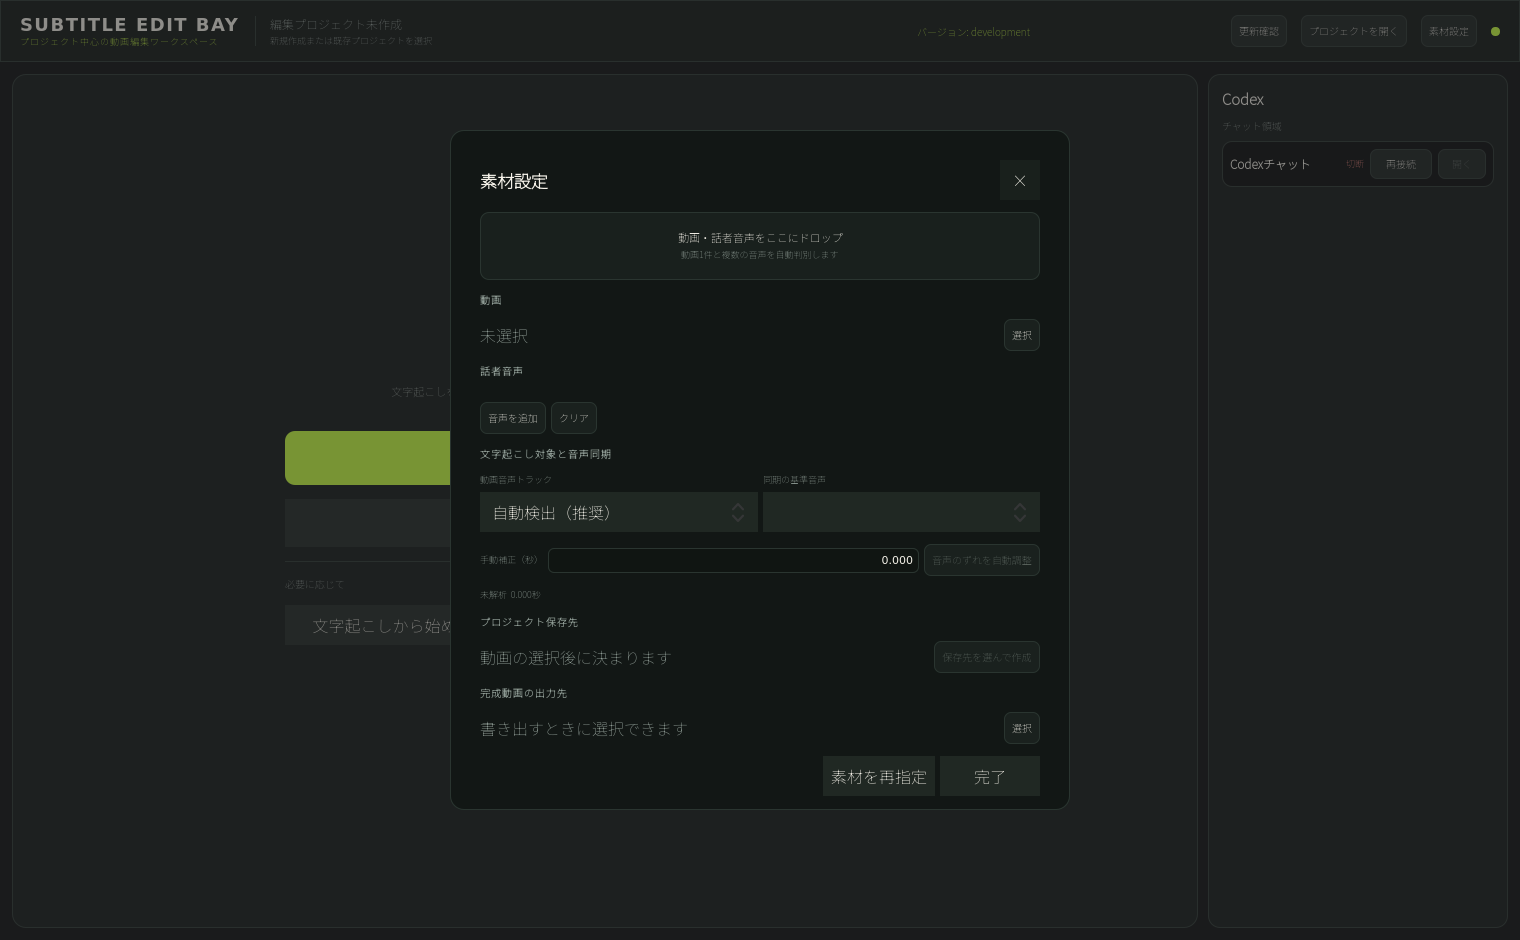
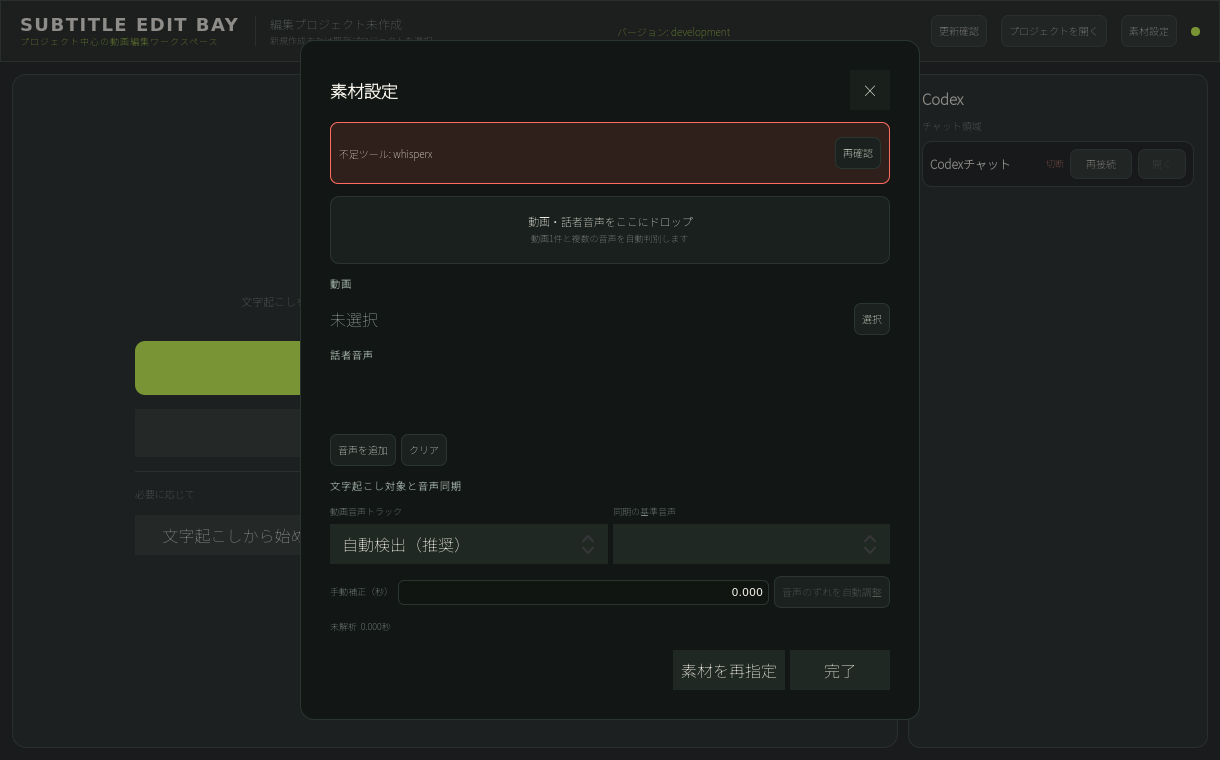
素材設定ポップアップの操作領域を固定

diff --git a/src/ui/screens/MainWorkflowScreen.qml b/src/ui/screens/MainWorkflowScreen.qml
@@ -2032,13 +2032,32 @@ ApplicationWindow {
         objectName: "sourcePopup"
         id: sourcePopup
         anchors.centerIn: Overlay.overlay
-        width: 620; height: 680; modal: true; focus: true; closePolicy: Popup.CloseOnEscape
+        width: Math.min(620, Overlay.overlay.width - 32)
+        height: Math.min(680, Overlay.overlay.height - 32)
+        modal: true; focus: true; closePolicy: Popup.CloseOnEscape
         onOpened: root.appBackend.beginSourceRelink()
         onClosed: root.appBackend.finishSourceRelink()
         background: Rectangle { radius: 14; color: root.panel; border.color: root.border }
         ColumnLayout { anchors.fill: parent; anchors.margins: 18; spacing: 12
             RowLayout { Layout.fillWidth: true; Text { text: "素材設定"; color: root.textPrimary; font.family: "Yu Gothic UI"; font.pixelSize: 17; font.weight: Font.Bold; Layout.fillWidth: true } ToolButton { text: "×"; onClicked: sourcePopup.close() } }
+            ScrollView {
+                id: sourceSettingsScrollView
+                objectName: "sourceSettingsScrollView"
+                Layout.fillWidth: true
+                Layout.fillHeight: true
+                clip: true
+                ScrollBar.horizontal.policy: ScrollBar.AlwaysOff
+                ScrollBar.vertical: ScrollBar {
+                    objectName: "sourceSettingsVerticalScrollBar"
+                    policy: ScrollBar.AsNeeded
+                }
+                ColumnLayout {
+                    id: sourceSettingsContent
+                    objectName: "sourceSettingsContent"
+                    width: sourceSettingsScrollView.availableWidth
+                    spacing: 12
             Rectangle {
+                objectName: "sourceDependencyWarning"
                 Layout.fillWidth: true
                 Layout.preferredHeight: visible ? 62 : 0
                 visible: !root.appBackend.dependencyStatus.ready
@@ -2086,7 +2105,9 @@ ApplicationWindow {
             PanelTitle { text: "話者音声" }
             ListView {
                 id: sourceAudioList
-                Layout.fillWidth: true; Layout.fillHeight: true; clip: true; spacing: 5; model: root.appBackend.speakers
+                Layout.fillWidth: true
+                Layout.preferredHeight: Math.max(48, Math.min(124, contentHeight))
+                clip: true; spacing: 5; model: root.appBackend.speakers
                 delegate: Rectangle { id: sourceAudioDelegate; required property int index; required property var modelData; width: sourceAudioList.width; height: 38; radius: 7; color: root.raised
                     RowLayout {
                         anchors.fill: parent
@@ -2175,7 +2196,15 @@ ApplicationWindow {
                 Text { objectName: "videoOutputDirectoryText"; Layout.fillWidth: true; text: root.appBackend.videoOutputDirectory || "書き出すときに選択できます"; color: root.textMuted; elide: Text.ElideMiddle }
                 SmallButton { objectName: "videoOutputDirectoryButton"; text: "選択"; enabled: !root.appBackend.running; onClicked: root.appBackend.browseOutputDirectory() }
             }
-            RowLayout { Layout.fillWidth: true; Item { Layout.fillWidth: true } Button { objectName: "sourceRelinkButton"; text: "素材を再指定"; enabled: root.appBackend.projectLoaded && !root.appBackend.running; onClicked: root.appBackend.relinkProjectSources() } Button { objectName: "sourceDoneButton"; text: "完了"; onClicked: sourcePopup.close() } }
+                }
+            }
+            RowLayout {
+                objectName: "sourcePopupFooter"
+                Layout.fillWidth: true
+                Item { Layout.fillWidth: true }
+                Button { objectName: "sourceRelinkButton"; text: "素材を再指定"; enabled: root.appBackend.projectLoaded && !root.appBackend.running; onClicked: root.appBackend.relinkProjectSources() }
+                Button { objectName: "sourceDoneButton"; text: "完了"; onClicked: sourcePopup.close() }
+            }
         }
     }
 

diff --git a/tests/test_gui_editor.py b/tests/test_gui_editor.py
@@ -663,6 +663,14 @@ class GuiEditorRegressionTests(unittest.TestCase):
         export.mkdir()
         _, window = self._load_qml()
         self._click(window, self._quick_item(window, "sourceSetupButton"))
+        scroll_view = self._quick_item(window, "sourceSettingsScrollView")
+        flickable = scroll_view.property("contentItem")
+        max_content_y = max(
+            0.0,
+            float(flickable.property("contentHeight")) - float(flickable.property("height")),
+        )
+        flickable.setProperty("contentY", max_content_y)
+        self.app.processEvents()
         with patch("src.gui_base.QFileDialog.getExistingDirectory", return_value=str(export)):
             self._click(window, self._quick_item(window, "videoOutputDirectoryButton"))
         self.assertEqual(self._quick_item(window, "videoOutputDirectoryText").property("text"), str(export))
@@ -759,21 +767,52 @@ class GuiEditorRegressionTests(unittest.TestCase):
         path = self._load_project()
         self.app.setOutputDirectory("")
         self.app.initializeShortVideoClips()
-        self.app._dependencies = RuntimeDependencyStatus(True, True, False, cuda=False)
-        self.app.dependenciesChanged.emit()
         _, window = self._load_qml()
+        self.gui.resize(window, 1220, 760)
         self.assertFalse(self.app.actionCapabilities["canRenderNormal"])
         self.assertTrue(self.app.actionCapabilities["normalRenderNeedsOutput"])
         self.assertTrue(self._quick_item(window, "renderVideoButton").isEnabled())
         self.assertIn("出力先を選んで", self._quick_item(window, "renderVideoButton").property("text"))
-        self._click(window, self._quick_item(window, "sourceSetupButton"))
-        popup = window.findChild(QObject, "sourcePopup")
-        content = popup.property("contentItem")
-        for name in ("projectSaveAsButton", "videoOutputDirectoryButton", "sourceDoneButton"):
-            self._assert_quick_item_within(content, self._quick_item(window, name))
-        self.assertEqual(self._quick_item(window, "projectSavePathText").property("text"), str(path))
-        self.assertIn("書き出すとき", self._quick_item(window, "videoOutputDirectoryText").property("text"))
-        self._click(window, self._quick_item(window, "sourceDoneButton"))
+
+        for dependencies, warning_visible in (
+            (RuntimeDependencyStatus(True, True, False, cuda=False), True),
+            (RuntimeDependencyStatus(True, True, True, cuda=False), False),
+        ):
+            with self.subTest(warning_visible=warning_visible):
+                self.app._dependencies = dependencies
+                self.app.dependenciesChanged.emit()
+                self._click(window, self._quick_item(window, "sourceSetupButton"))
+                popup = window.findChild(QObject, "sourcePopup")
+                content = popup.property("contentItem")
+                scroll_view = self._quick_item(window, "sourceSettingsScrollView")
+                scroll_content = self._quick_item(window, "sourceSettingsContent")
+                scroll_bar = self._quick_item(window, "sourceSettingsVerticalScrollBar")
+                footer = self._quick_item(window, "sourcePopupFooter")
+                done_button = self._quick_item(window, "sourceDoneButton")
+                warning = self._quick_item(window, "sourceDependencyWarning")
+                flickable = scroll_view.property("contentItem")
+                self.assertIsNotNone(flickable)
+                self.assertEqual(warning.isVisible(), warning_visible)
+                self._assert_quick_item_within(content, footer)
+                self._assert_quick_item_within(content, done_button)
+                self.assertGreater(scroll_content.property("implicitHeight"), scroll_view.height())
+                self.assertTrue(scroll_bar.isVisible())
+                self.assertLess(float(scroll_bar.property("size")), 1.0)
+
+                max_content_y = max(
+                    0.0,
+                    float(flickable.property("contentHeight")) - float(flickable.property("height")),
+                )
+                flickable.setProperty("contentY", max_content_y)
+                self.app.processEvents()
+                for name in ("projectSaveAsButton", "videoOutputDirectoryButton"):
+                    self._assert_quick_item_within(scroll_view, self._quick_item(window, name))
+                self._assert_quick_item_within(content, footer)
+                self._assert_quick_item_within(content, done_button)
+                self.assertEqual(self._quick_item(window, "projectSavePathText").property("text"), str(path))
+                self.assertIn("書き出すとき", self._quick_item(window, "videoOutputDirectoryText").property("text"))
+                flickable.setProperty("contentY", 0)
+                self._click(window, done_button)
         self._click(window, self._quick_item(window, "shortModeOpenButton"))
         self.assertTrue(self._quick_item(window, "shortModeExportButton").isEnabled())
 
